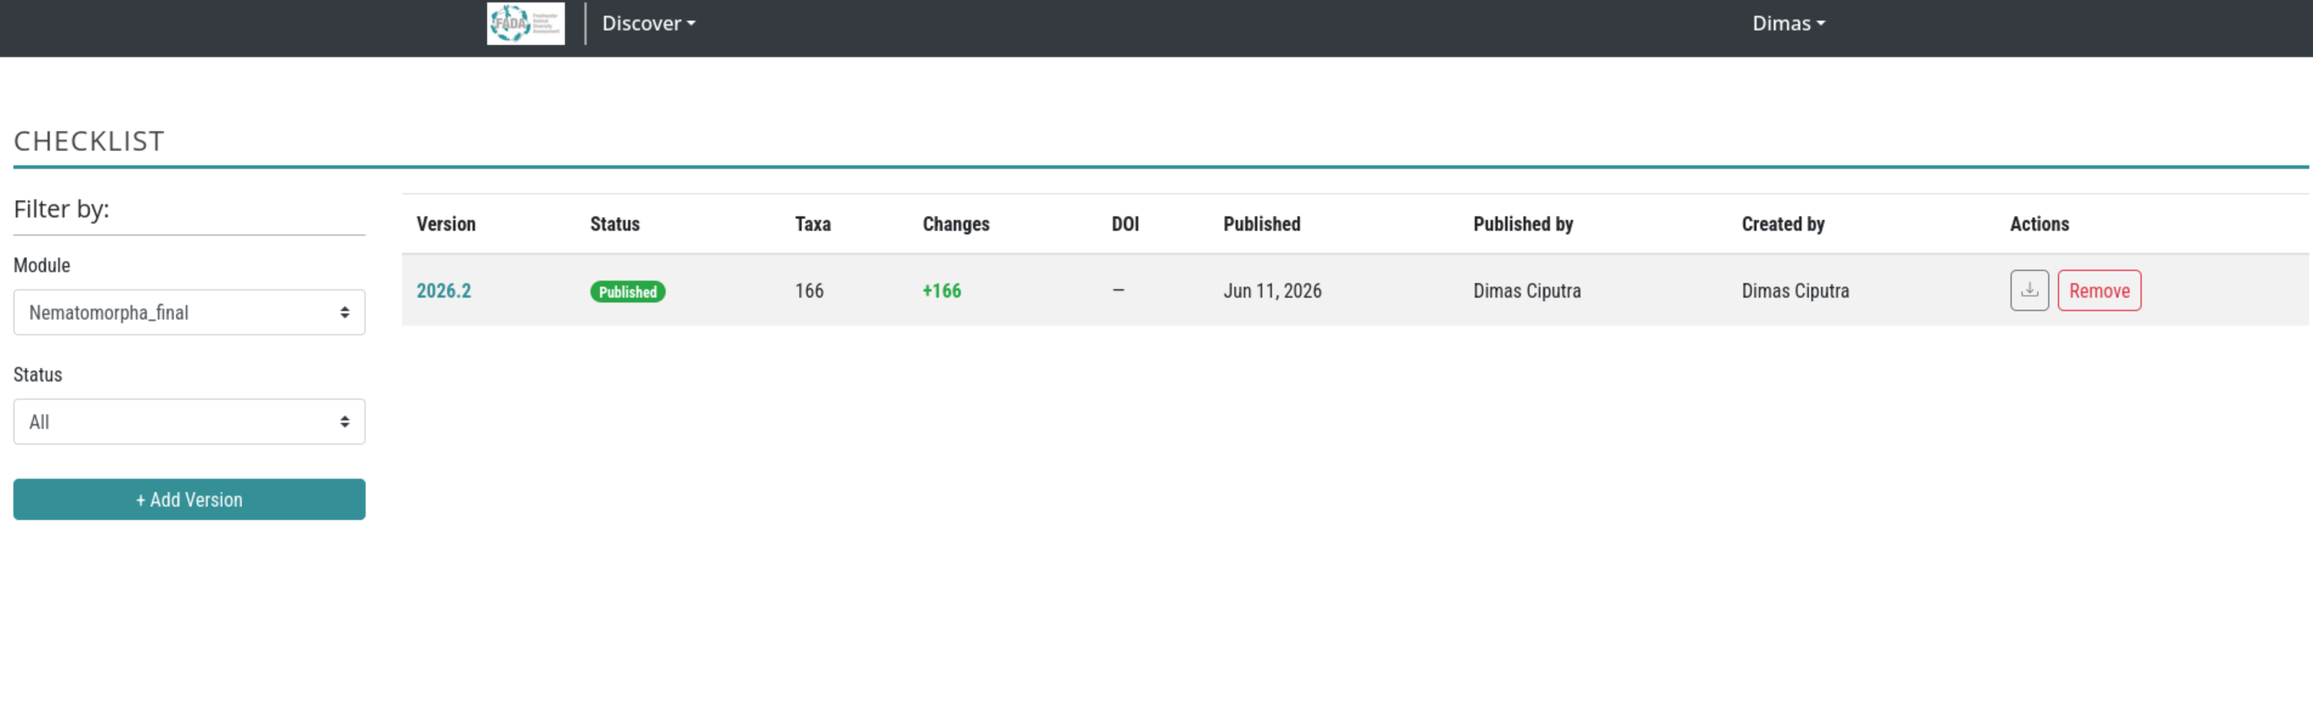
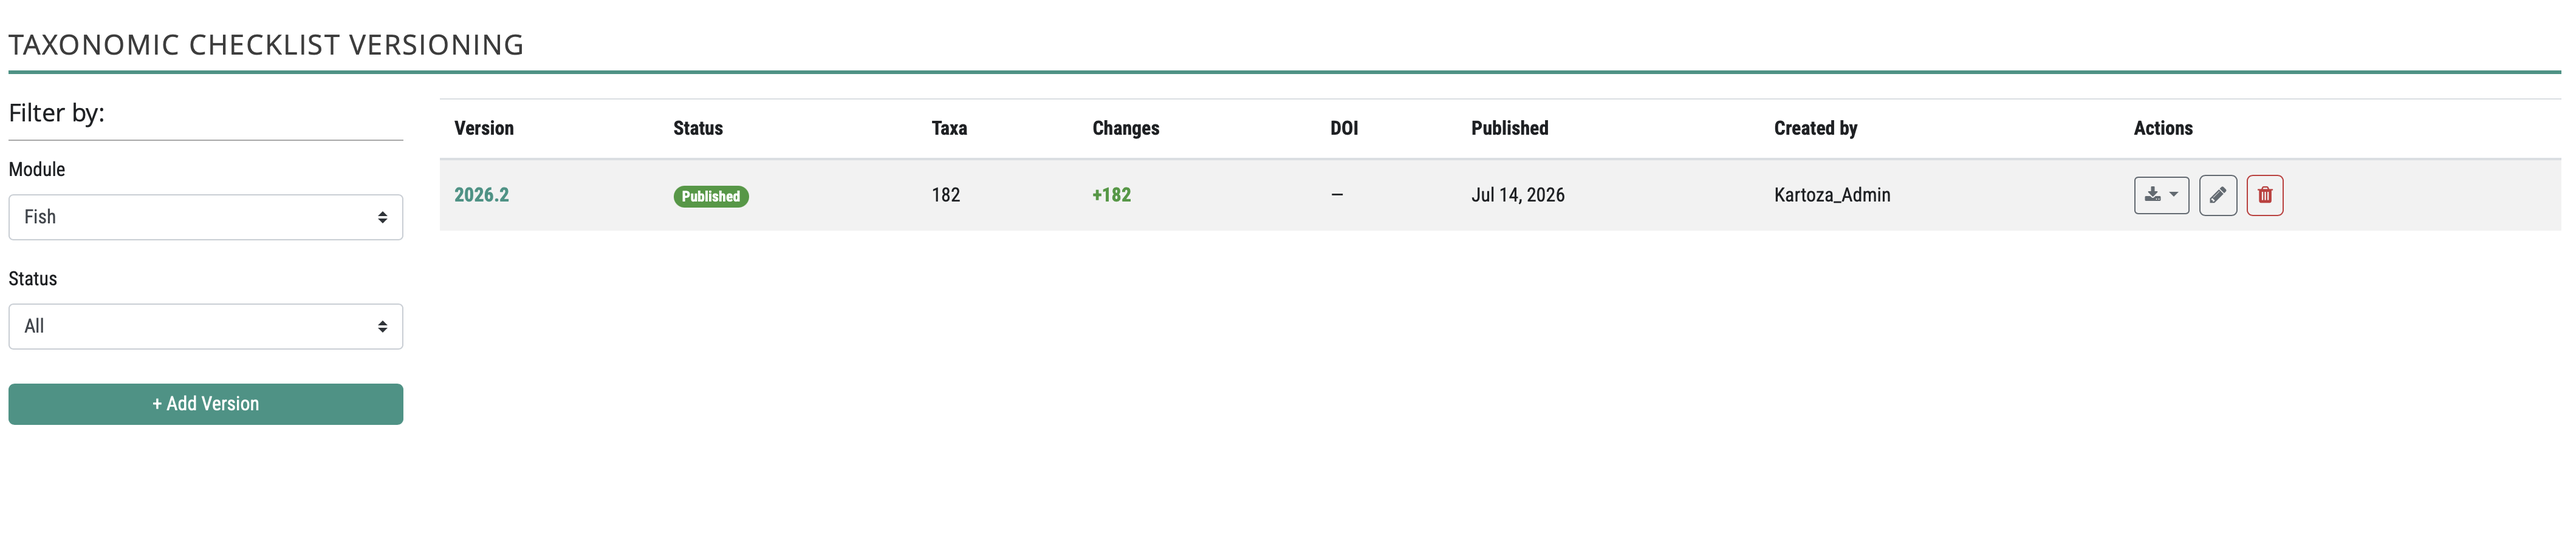
Update checklist workflow for DOI editing and multi-format downloads (#63)

diff --git a/docs/src/administrator/biodiversity-data/checklist-version-workflow.md b/docs/src/administrator/biodiversity-data/checklist-version-workflow.md
@@ -120,6 +120,31 @@ Both routes require you to confirm. After confirmation:
 
 ---
 
+## Updating a DOI on a Published Version
+
+After a version is published, its DOI can be updated without re-publishing the version. This is useful when a DOI is reserved before publishing but only registered (activated) with the DOI provider afterward, or when a DOI needs to be corrected.
+
+### Who can update a DOI
+
+| Role | Can update DOI |
+|------|----------------|
+| **Superuser** | Any published version |
+| **Taxon group expert** | Versions for their assigned modules |
+
+### Steps
+
+1. Locate the published version in the checklist table.
+2. Click the version string to open the version detail panel.
+3. Click the **Edit DOI** button (pencil icon) next to the DOI field.
+4. Enter or paste the new DOI value (e.g. `https://doi.org/10.XXXX/YYYY`).
+5. Click **Save**. The DOI is updated immediately on the version record and will be reflected in any subsequent ColDP ZIP exports.
+
+![Edit DOI field on the version detail panel](./img/checklist_edit_doi.png)
+
+> **Note:** Updating a DOI does not alter the immutable taxa snapshot or changelog counts. It only updates the metadata field on the `ChecklistVersion` record.
+
+---
+
 ## Understanding the Changelog
 
 The **Changes** column shows how this version differs from its `previous_version`:
@@ -138,11 +163,22 @@ A dash (`—`) means no previous version was set, or all counts are zero.
 
 ---
 
-## Downloading a ColDP ZIP
+## Downloading a Checklist Export
 
-Click the download icon in the Actions column of any published version to export a ColDP ZIP package.
+Each published version has a download dropdown in the Actions column. Click the download icon to open the menu and choose one of the four export formats.
 
-The ZIP contains:
+![Download dropdown on a published version row](./img/checklist_download_dropdown.png)
+
+### Available formats
+
+| Format | Menu item | Description |
+|--------|-----------|-------------|
+| **ColDP ZIP** | ColDP ZIP | Catalogue of Life Data Package archive for submission to ChecklistBank or external citation. |
+| **CSV Taxa List** | CSV Taxa List | Flat CSV of all taxa in the snapshot, ordered by scientific name. |
+| **CSV Taxa List by Family** | CSV Taxa List by Family | Same CSV content but grouped and ordered by family name. |
+| **PDF** | PDF | Formatted species list document with taxa organised by genus/family, including synonyms and authorship. |
+
+### ColDP ZIP contents
 
 | File | Contents |
 |------|----------|
@@ -152,7 +188,9 @@ The ZIP contains:
 | `Distribution.tsv` | Biogeographic distributions |
 | `Reference.tsv` | Source references |
 
-The export runs as a background task. When complete, a download dialog appears. Large modules may take a minute or two.
+### Receiving the file
+
+When the export task completes you will receive an email with a download link. Large modules may take a few minutes. You can also re-open the download dialog from the same dropdown and use the link in the status popup once it appears.
 
 ---
 
@@ -220,6 +258,7 @@ Generated:            2025-04-01
 | `POST` | `/api/checklist-version/<uuid>/delete/` | Remove a published version (superuser or taxon group expert) |
 | `POST` | `/api/checklist-version/<uuid>/export/` | Enqueue a ColDP ZIP export; returns `download_request_id` |
 | `GET` | `/api/checklist-version/<uuid>/export/?download_request_id=<id>` | Stream the completed ZIP |
+| `GET` | `/download-checklist-snapshot/` | Download CSV or PDF snapshot; params: `checklistVersion`, `output` (`csv`/`pdf`), `orderBy` (`family`/`genus`), `downloadRequestId` |
 
 ### List endpoint filters
 
